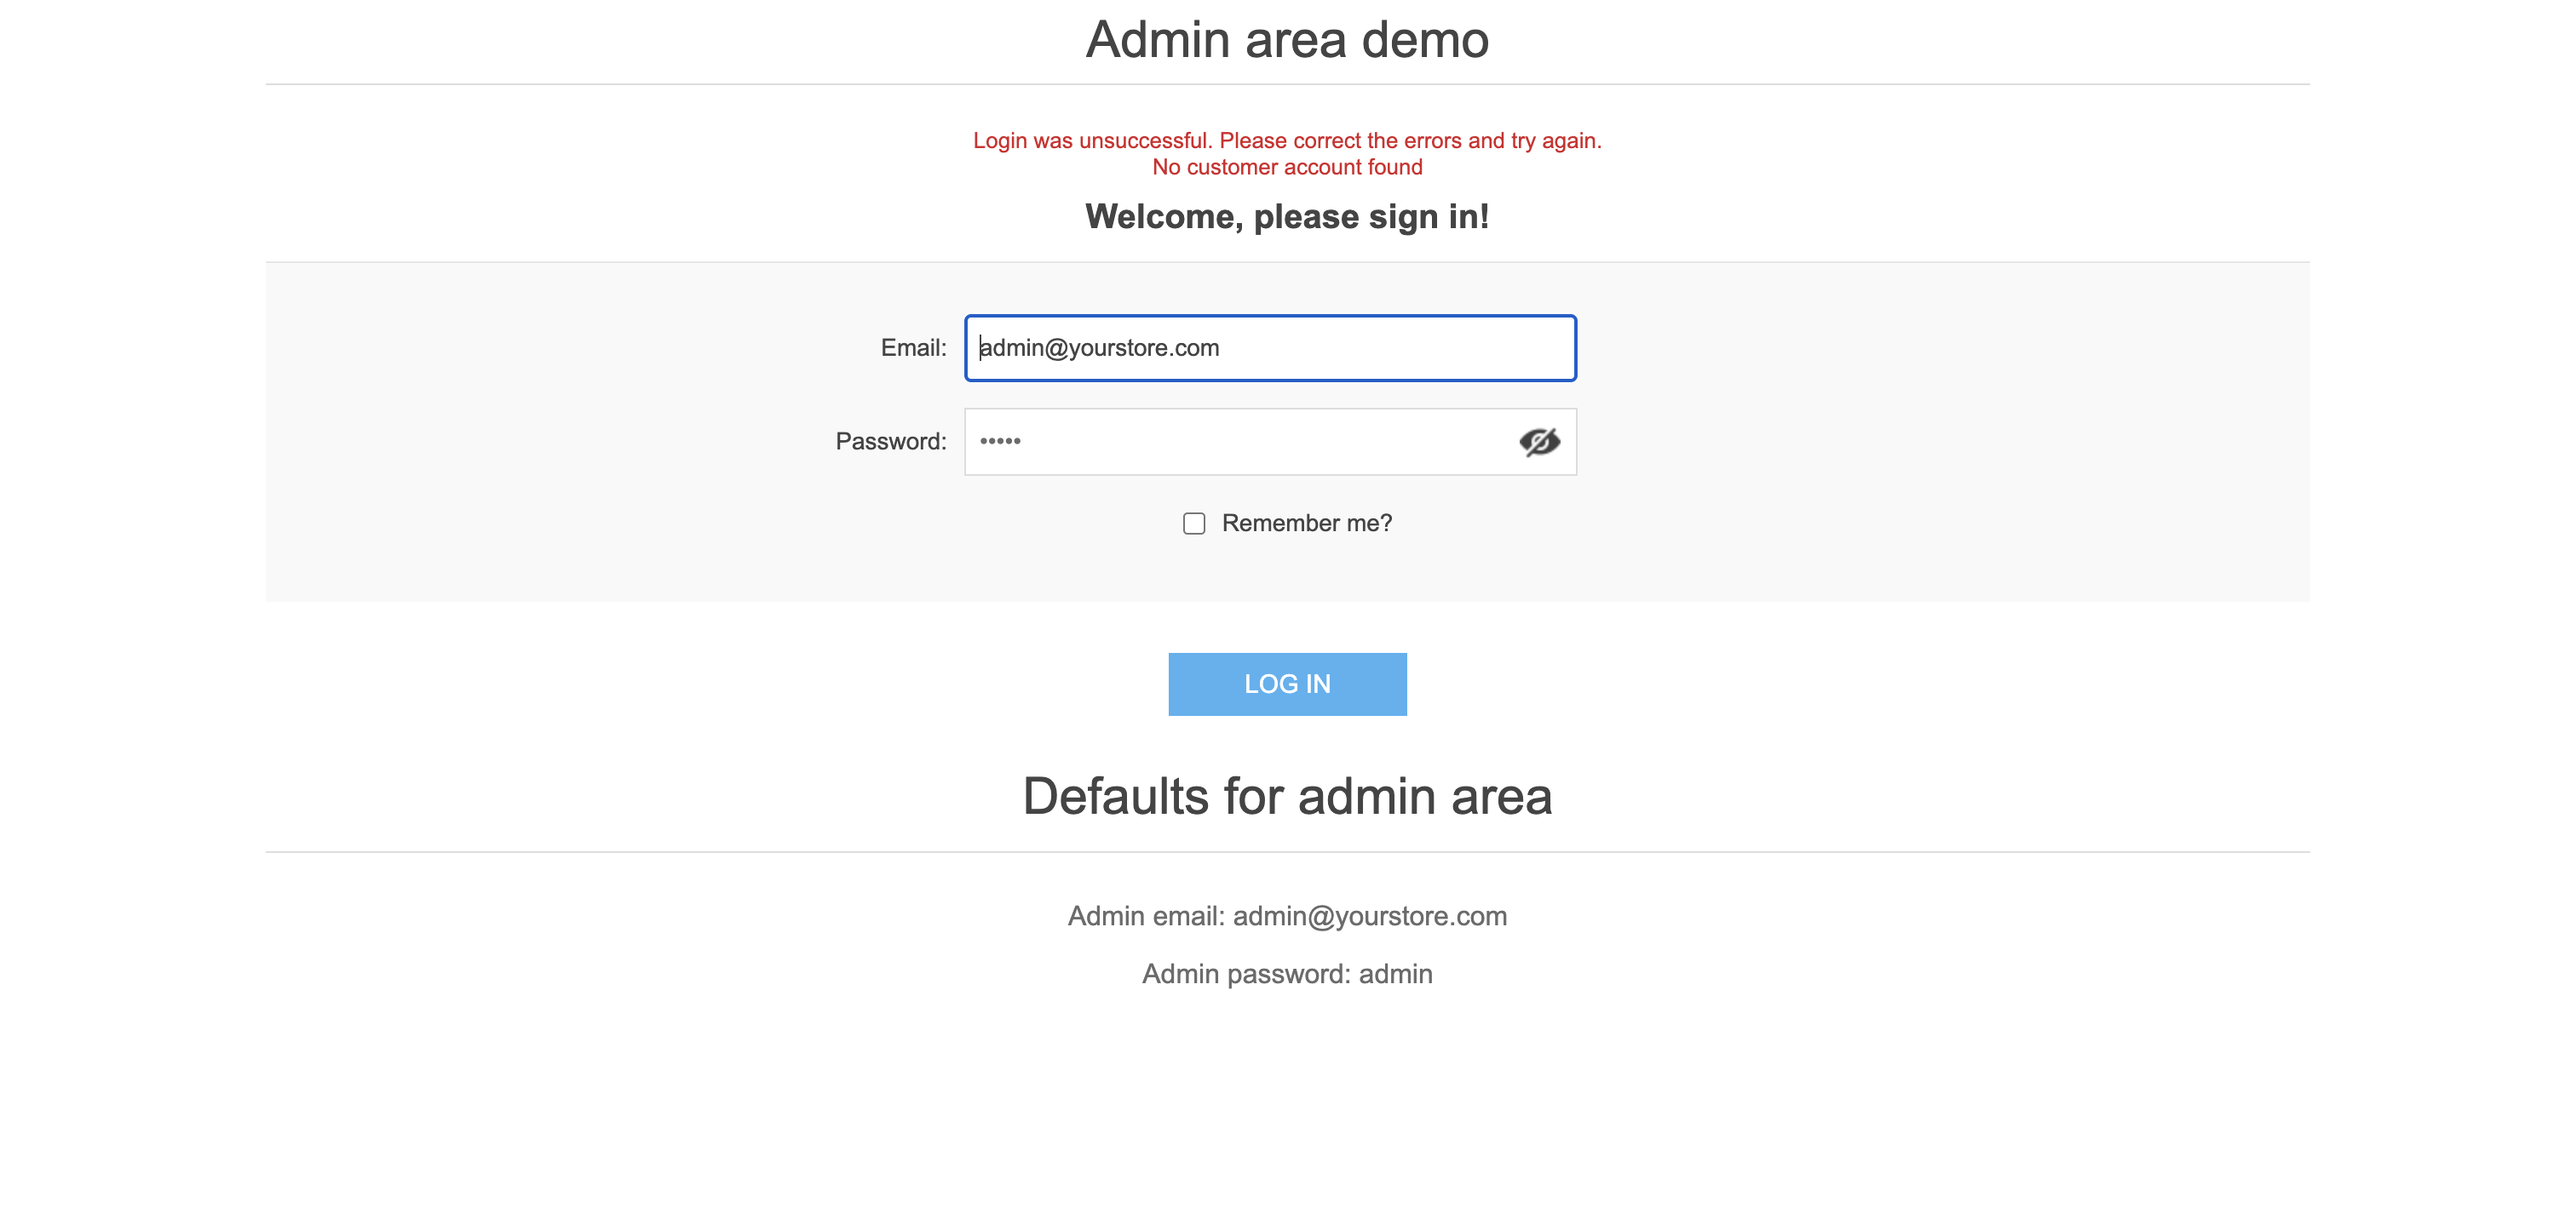
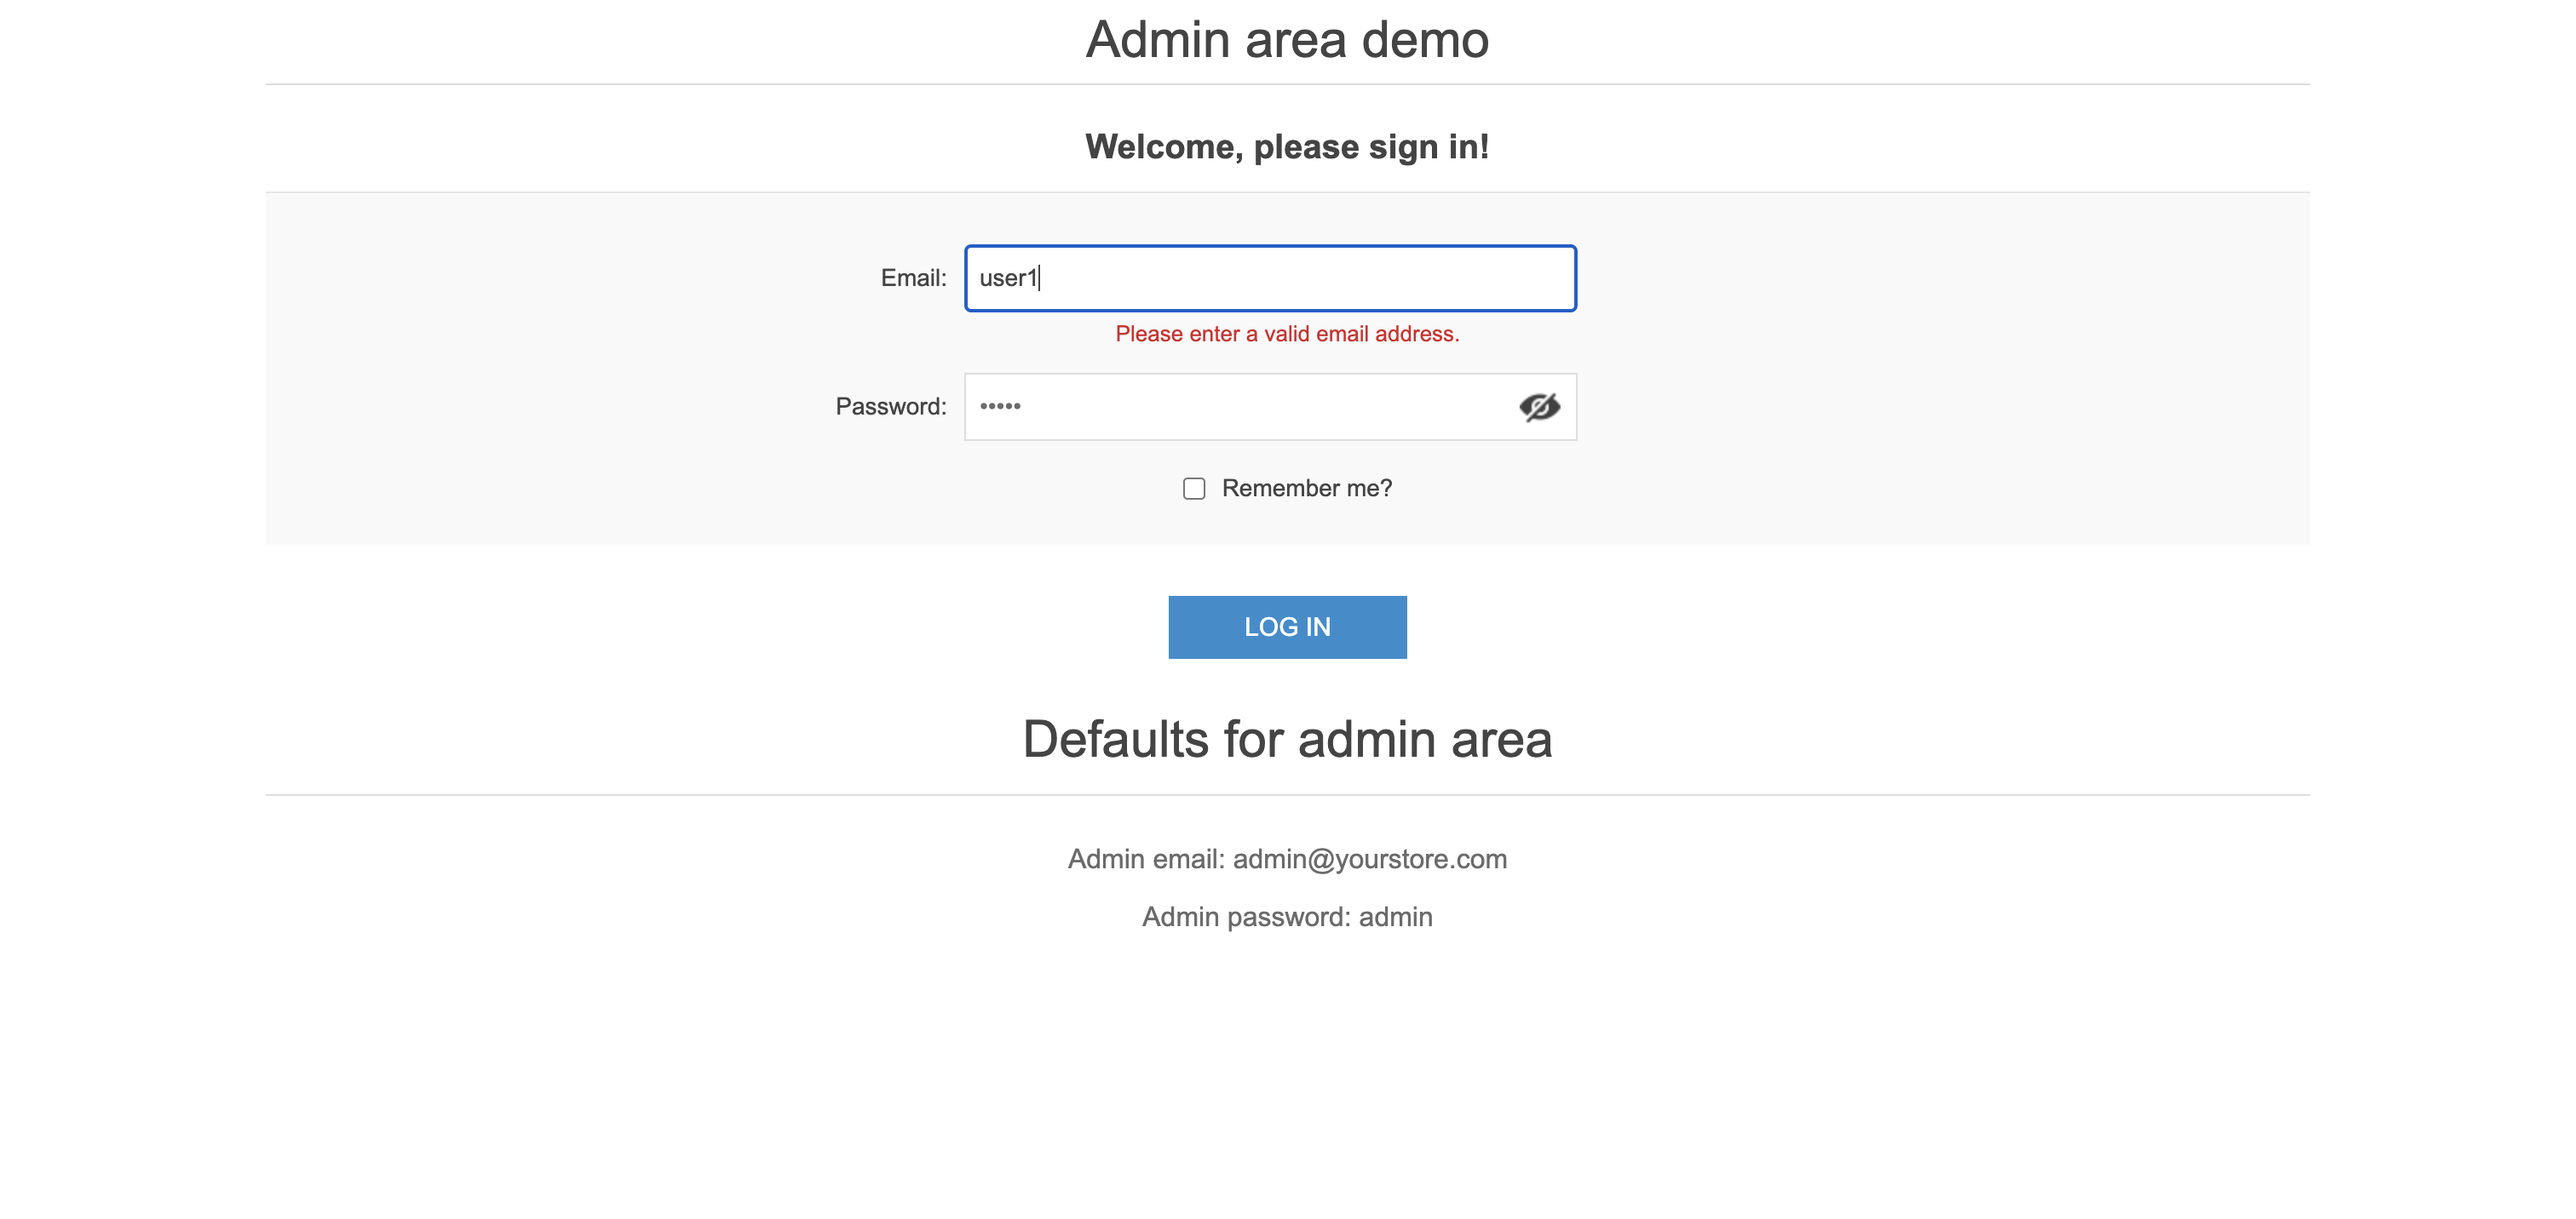
adding data provider run

diff --git a/reports/ExtentReport_2026-05-12-01-17-38.html b/reports/ExtentReport_2026-05-12-01-17-38.html
@@ -35,7 +35,7 @@
 <a href="#"><span class="badge badge-primary">Test Execution Report</span></a>
 </li>
 <li class="m-r-10">
-<a href="#"><span class="badge badge-primary">May 12, 2026 12:27:51 AM</span></a>
+<a href="#"><span class="badge badge-primary">May 12, 2026 01:17:38 AM</span></a>
 </li>
 </ul>
 </div>
@@ -67,6 +67,7 @@
 <a href="#" class="dropdown-toggle" data-toggle="dropdown"><i class="fa fa-exclamation-circle"></i></a>
 <ul id="status-toggle" class="dropdown-menu dropdown-md p-v-0">
 <a class="dropdown-item" status="pass" href="#"><span>Pass</span><span class="status success"></span></a>
+<a class="dropdown-item" status="fail" href="#"><span>Fail</span><span class="status danger"></span></a>
 <div class="dropdown-divider"></div>
 <a status="clear" class="dropdown-item" href="#"><span>Clear</span><span class="pull-right"><i class="fa fa-close"></i></span></a>
 </ul>
@@ -81,7 +82,7 @@
           <div class="test-detail">
             <p class="name">Login Test - admin@yourstore.com</p>
             <p class="text-sm">
-              <span>12:27:55 AM</span> / <span>00:00:56:938</span>
+              <span>1:17:41 AM</span> / <span>00:00:22:609</span>
               <span class="badge pass-bg log float-right">Pass</span>
             </p>
           </div>
@@ -90,9 +91,9 @@
 <div class="p-v-10">
 <div class="info">
 <h5 class="test-status text-pass">Login Test - admin@yourstore.com</h5>
-<span class='badge badge-success'>05.12.2026 12:27:55 AM</span>
-<span class='badge badge-danger'>05.12.2026 12:28:52 AM</span>
-<span class='badge badge-default'>00:00:56:938</span>
+<span class='badge badge-success'>05.12.2026 1:17:41 AM</span>
+<span class='badge badge-danger'>05.12.2026 1:18:04 AM</span>
+<span class='badge badge-default'>00:00:22:609</span>
 &middot; <span class='uri-anchor badge badge-default'>#test-id=1</span>
 <span title='Skip to the next failed step' class='badge badge-danger pointer float-right ne ml-1'><i class="fa fa-fast-forward"></i></span>
 <span title='Collapse all nodes' class='badge badge-default pointer float-right ct ml-1'><i class="fa fa-compress"></i></span>
@@ -105,30 +106,100 @@
   <tbody>
       <tr class="event-row">
         <td><span class="badge log info-bg">Info</span></td>
-        <td>12:27:55 AM</td>
+        <td>1:17:42 AM</td>
         <td>
           Navigate To login Page
         </td>
       </tr>
       <tr class="event-row">
         <td><span class="badge log info-bg">Info</span></td>
-        <td>12:27:55 AM</td>
+        <td>1:18:04 AM</td>
         <td>
           Credentials are correct and Login Successfull!
         </td>
       </tr>
       <tr class="event-row">
         <td><span class="badge log info-bg">Info</span></td>
-        <td>12:27:55 AM</td>
+        <td>1:18:04 AM</td>
         <td>
           Verifying page Description
         </td>
       </tr>
       <tr class="event-row">
         <td><span class="badge log pass-bg">Pass</span></td>
-        <td>12:28:52 AM</td>
+        <td>1:18:04 AM</td>
         <td>
           Everything is correct and Login Successfull!
+        </td>
+      </tr>
+  </tbody>
+</table>
+</div>
+          </div>
+        </li>
+        <li class="test-item"  status="fail" test-id="2"
+          author=""
+          tag=""
+          device="">
+          <div class="test-detail">
+            <p class="name">Login Test - user1</p>
+            <p class="text-sm">
+              <span>1:18:11 AM</span> / <span>00:00:15:610</span>
+              <span class="badge fail-bg log float-right">Fail</span>
+            </p>
+          </div>
+          <div class="test-contents d-none">
+<div class="detail-head">
+<div class="p-v-10">
+<div class="info">
+<h5 class="test-status text-fail">Login Test - user1</h5>
+<span class='badge badge-success'>05.12.2026 1:18:11 AM</span>
+<span class='badge badge-danger'>05.12.2026 1:18:26 AM</span>
+<span class='badge badge-default'>00:00:15:610</span>
+&middot; <span class='uri-anchor badge badge-default'>#test-id=2</span>
+<span title='Skip to the next failed step' class='badge badge-danger pointer float-right ne ml-1'><i class="fa fa-fast-forward"></i></span>
+<span title='Collapse all nodes' class='badge badge-default pointer float-right ct ml-1'><i class="fa fa-compress"></i></span>
+<span title='Expand all nodes' class='badge badge-default pointer float-right et'><i class="fa fa-expand"></i></span>
+</div>
+</div>
+</div><div class="detail-body mt-4">
+<table class="table table-sm">
+  <thead><tr><th class="status-col">Status</th><th class="timestamp-col">Timestamp</th><th class="details-col">Details</th></tr></thead>
+  <tbody>
+      <tr class="event-row">
+        <td><span class="badge log info-bg">Info</span></td>
+        <td>1:18:11 AM</td>
+        <td>
+          Navigate To login Page
+        </td>
+      </tr>
+      <tr class="event-row">
+        <td><span class="badge log info-bg">Info</span></td>
+        <td>1:18:11 AM</td>
+        <td>
+          Credentials are correct and Login Successfull!
+        </td>
+      </tr>
+      <tr class="event-row">
+        <td><span class="badge log info-bg">Info</span></td>
+        <td>1:18:11 AM</td>
+        <td>
+          Verifying page Description
+        </td>
+      </tr>
+      <tr class="event-row">
+        <td><span class="badge log fail-bg">Fail</span></td>
+        <td>1:18:26 AM</td>
+        <td>
+          Test Fail check Screenshot
+    <div class="row mb-3"><div class="col-md-3">
+    
+
+<img data-featherlight='/Users/gaurav/Downloads/SeleniumAutomation/screenshots/LoginFailure.png' src="/Users/gaurav/Downloads/SeleniumAutomation/screenshots/LoginFailure.png">
+  
+    
+
+    </div></div>
         </td>
       </tr>
   </tbody>
@@ -150,13 +221,13 @@
 <div class="col-md-3">
 <div class="card"><div class="card-body">
 <p class="m-b-0">Started</p>
-<h3>May 12, 2026 12:27:51 AM</h3>
+<h3>May 12, 2026 01:17:38 AM</h3>
 </div></div>
 </div>
 <div class="col-md-3">
 <div class="card"><div class="card-body">
 <p class="m-b-0">Ended</p>
-<h3>May 12, 2026 12:28:52 AM</h3>
+<h3>May 12, 2026 01:18:26 AM</h3>
 </div></div>
 </div>
 <div class="col-md-3">
@@ -168,7 +239,7 @@
 <div class="col-md-3">
 <div class="card"><div class="card-body">
 <p class="m-b-0 text-fail">Tests Failed</p>
-<h3>0</h3>
+<h3>1</h3>
 </div></div>
 </div>
 </div>
@@ -184,12 +255,12 @@
 </div>
 </div>
 <div class="card-footer">
-<div><small data-tooltip='100%'>
+<div><small data-tooltip='50%'>
 <b>1</b> tests passed
 </small>
 </div>
 <div>
-<small data-tooltip='0%'><b>0</b> tests failed,
+<small data-tooltip='50%'><b>1</b> tests failed,
 <b>0</b> skipped, <b data-tooltip='0%'>0</b> others
 </small>
 </div>
@@ -207,10 +278,10 @@
 </div>
 </div>
 <div class="card-footer">
-<div><small data-tooltip='25%'><b>1</b> events passed</small></div>
+<div><small data-tooltip='12%'><b>1</b> events passed</small></div>
 <div>
-<small data-tooltip='0%'><b>0</b> events failed,
-<b data-tooltip='%'>3</b> others
+<small data-tooltip='12%'><b>1</b> events failed,
+<b data-tooltip='%'>6</b> others
 </small>
 </div>
 </div>
@@ -226,7 +297,7 @@
 </div></div>
 <script>
 var timeline = {
-"Login Test - admin@yourstore.com":56.938
+"Login Test - admin@yourstore.com":22.609,"Login Test - user1":15.61
 };
 </script>
 <div class="row">
@@ -236,7 +307,7 @@ var timeline = {
 var statusGroup = {
 parentCount: 5,
 passParent: 1,
-failParent: 0,
+failParent: 1,
 warningParent: 0,
 skipParent: 0,
 childCount: 5,
@@ -253,10 +324,10 @@ skipGrandChild: 0,
 infoGrandChild: 0,
 eventsCount: 5,
 passEvents: 1,
-failEvents: 0,
+failEvents: 1,
 warningEvents: 0,
 skipEvents: 0,
-infoEvents: 3
+infoEvents: 6
 };
 </script>        </div>
       </div>

diff --git a/src/test/java/tests/LoginTest.java b/src/test/java/tests/LoginTest.java
@@ -37,7 +37,7 @@ public class LoginTest extends BaseTest {
                 {"user1","pass1"}
         };
     }
-//    @Test(dataProvider = "LoginData2")
+    @Test(dataProvider = "LoginData2")
     public void TestValidLogin(String email, String password) throws IOException {
         Log.info("Starting the Validation");
         test = ExtentReportManager.createTest("Login Test - "+email);
@@ -82,8 +82,8 @@ public class LoginTest extends BaseTest {
         Assert.assertEquals(driver.getTitle(), "Welcome");
     }
 
-    @Test()
-    @Parameters({"email","password"})
+//    @Test()
+//    @Parameters({"email","password"})
     public void TestValidLoginTestNG(String email, String password) throws IOException {
         Log.info("Starting the Validation");
         test = ExtentReportManager.createTest("Login Test - "+email);
